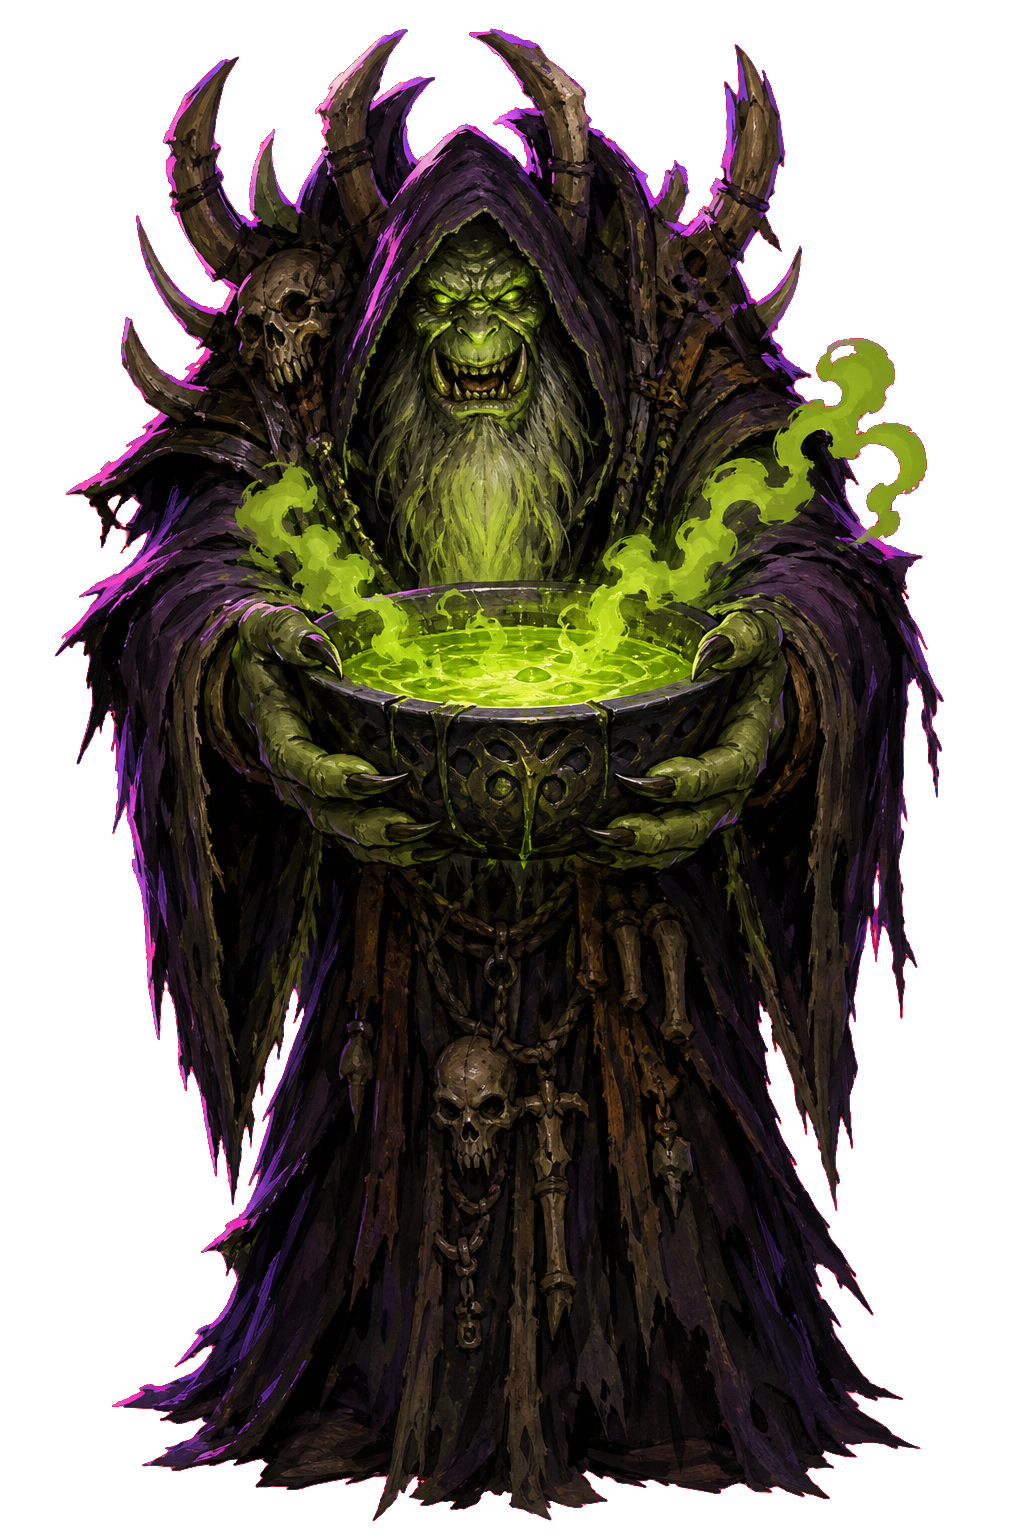
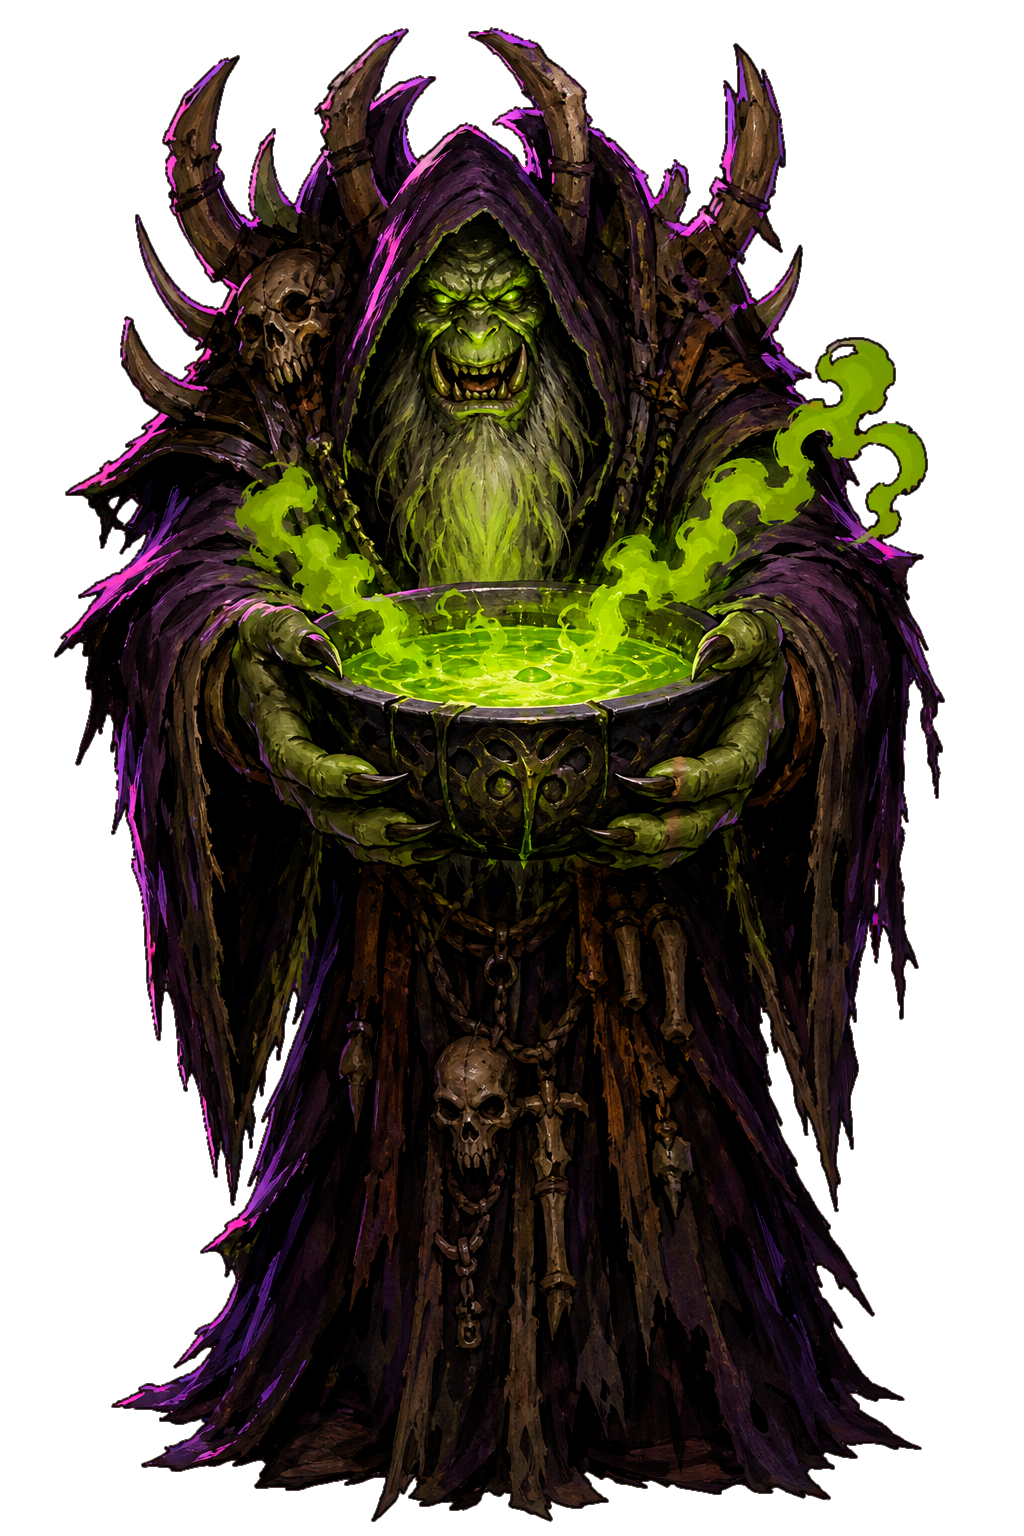
Хотфикс 2

diff --git a/styles.css b/styles.css
@@ -98,10 +98,6 @@ a {
     filter: drop-shadow(0 0 32px rgba(111,55,163,.4))
 }
 
-.character-wrap:after {
-    display: none
-}
-
 header {
     position: relative;
     z-index: 8;
@@ -110,7 +106,7 @@ header {
     display: flex;
     align-items: center;
     justify-content: space-between;
-    border-bottom: 1px solid rgba(255,255,255,.12)
+    /* border-bottom: 1px solid rgba(255,255,255,.12); */
 }
 
 .brand {
@@ -154,7 +150,7 @@ header {
 nav {
     display: flex;
     gap: 42px;
-    font: 600 10px Montserrat;
+    font: 600 16px Montserrat;
     letter-spacing: .15em
 }
 
@@ -177,7 +173,7 @@ nav a:hover {
 .overline,.label,.cta>p {
     text-transform: uppercase;
     letter-spacing: .3em;
-    font-size: 9px;
+    font-size: 14px;
     color: var(--green);
     font-weight: 700
 }
@@ -206,46 +202,6 @@ nav a:hover {
     margin: 30px 0 0 5px
 }
 
-.side-note {
-    position: absolute;
-    z-index: 5;
-    right: 5vw;
-    top: 130px;
-    display: flex;
-    align-items: center;
-    gap: 11px;
-    border-left: 1px solid var(--green);
-    padding-left: 14px
-}
-
-.side-note span {
-    font: 600 38px 'Cormorant Garamond'
-}
-
-.side-note small {
-    font-size: 8px;
-    line-height: 1.5;
-    color: #a69dab;
-    letter-spacing: .15em
-}
-
-.scroll {
-    position: absolute;
-    z-index: 5;
-    left: 7vw;
-    bottom: 40px;
-    font-size: 8px;
-    letter-spacing: .18em;
-    color: #8b838e
-}
-
-.scroll i {
-    font-style: normal;
-    color: var(--green);
-    font-size: 18px;
-    margin-left: 15px
-}
-
 .news {
     min-height: 620px;
     position: relative;
@@ -256,23 +212,6 @@ nav a:hover {
     align-items: start;
     background: radial-gradient(circle at 20% 80%,rgba(66,30,92,.2),transparent 35%),#09080b;
     border-top: 1px solid #211b25
-}
-
-.date {
-    border-top: 1px solid #41364a;
-    padding-top: 22px
-}
-
-.date span {
-    display: block;
-    font: 600 42px 'Cormorant Garamond';
-    color: #b292d5
-}
-
-.date b {
-    font-size: 11px;
-    letter-spacing: .35em;
-    color: #62596a
 }
 
 .news article {
@@ -474,22 +413,9 @@ footer {
         opacity: .72
     }
 
-    .side-note {
-        top: 105px
-    }
-
-    .scroll {
-        display: none
-    }
-
     .news {
         padding: 90px 7vw;
         display: block
-    }
-
-    .date {
-        width: 120px;
-        margin-bottom: 50px
     }
 
     .news h3 {
@@ -588,6 +514,58 @@ footer {
 
     .character-wrap img {
         object-position: center center
+    }
+}
+
+@media(min-width: 801px) {
+    .hero .character-wrap {
+        top: 100px;
+        right: -7%;
+        bottom: 0;
+        width: min(65vw,1200px);
+        height: auto;
+        overflow: hidden;
+        align-items: flex-start
+    }
+
+    .hero .character-wrap img {
+        width: 100%;
+        height: auto;
+        max-width: none;
+        object-fit: initial;
+        object-position: initial;
+        margin-top: -3%
+    }
+}
+
+/*
+ * Hero artwork alignment, 1440px and wider.
+ * At 2560px the visible (non-transparent) pixels occupy x=1340..2469.
+ */
+@media(min-width: 1440px) {
+    .hero {
+        --hero-art-left: 49.61vw;
+        --hero-art-width: 50.84vw;
+        --hero-art-top: calc(72px - 1.39vw)
+    }
+
+    .hero .character-wrap {
+        left: var(--hero-art-left);
+        right: auto;
+        top: var(--hero-art-top);
+        bottom: auto;
+        width: var(--hero-art-width);
+        height: auto;
+        overflow: visible;
+        transform: none !important
+    }
+
+    .hero .character-wrap img {
+        width: 100%;
+        height: auto;
+        margin-top: 0;
+        position: relative;
+        left: -229px;
     }
 }
 
@@ -734,13 +712,6 @@ footer {
         padding-right: 7vw
     }
 
-    .news .date {
-        position: absolute;
-        top: 42px;
-        right: 7vw;
-        width: 105px
-    }
-
     .news article {
         grid-column: 2;
         max-width: none
@@ -765,7 +736,7 @@ footer {
         background: linear-gradient(0deg,#050406 30%,transparent 60%)
     }
 
-    .glow,.hero-copy,.side-note,.scroll,header nav {display:none}
+    .glow,.hero-copy,header nav {display:none}
 
     .hero header {
         display:flex;

diff --git a/index.html b/index.html
@@ -31,7 +31,7 @@
         <a class="brand" href="#top" aria-label="Roleplay Horror">
           <img src="assets/roleplay-horror-logo.png" alt="Roleplay Horror">
         </a>
-        <nav><a href="#news">СЮЖЕТ</a><a href="#news">ХРОНОЛОГИЯ</a><a href="#form">НАГНАТЬ СТРАХУ</a></nav>
+        <nav><a href="#news">АННОТАЦИЯ</a><a href="#form">НАГНАТЬ СТРАХУ</a></nav>
       </header>
 
       <div class="hero-copy" id="top">
@@ -39,7 +39,6 @@
         <h1>УЖАСЫ<br>РОЛЕВОГО<br>СООБЩЕСТВА</h1>
       </div>
 
-      <a class="scroll" href="#news">СМОТРЕТЬ ДАЛЬШЕ <i>↓</i></a>
     </section>
 
     <section class="news" id="news">
@@ -66,7 +65,7 @@
     <section class="cta" id="form">
       <div class="sigil" aria-hidden="true">A</div>
       <p>Фекальные масла должны течь, амиго</p>
-      <h2>ЕСТЬ, ЧЕМ<br><em>ПОДЕЛИТЬСЯ?</em></h2>
+      <h2>ЕСТЬ ЧЕМ<br><em>ПОДЕЛИТЬСЯ?</em></h2>
       <a class="fear-button" href="https://docs.google.com/forms/d/e/1FAIpQLSeIyanrtbT4ZBPVX1aGp7A012pccO_CQ77_rzawRogk6rS3yw/viewform?usp=sharing&amp;ouid=116265456750417374685" target="_blank" rel="noopener noreferrer">
         <span>ТАК ПОКАЖИ МНЕ</span>
       </a>

diff --git a/script.js b/script.js
@@ -6,10 +6,10 @@ window.addEventListener('pointermove', ({ clientX, clientY }) => {
   const x = (clientX / window.innerWidth - .5) * 8;
   const y = (clientY / window.innerHeight - .5) * 5;
   heroCopy.style.transform = `translate(${-x * .35}px, calc(-50% + ${-y * .35}px))`;
-  character.style.transform = `translate(${x}px, ${y}px)`;
+  character.style.transform = window.innerWidth >= 1440 ? 'none' : `translate(${x}px, ${y}px)`;
 });
 
-const fadeTargets = document.querySelectorAll('.news article, .date, .cta > *:not(.sigil)');
+const fadeTargets = document.querySelectorAll('.news article, .cta > *:not(.sigil)');
 const observer = new IntersectionObserver(entries => {
   entries.forEach(entry => {
     if (entry.isIntersecting) entry.target.classList.add('shown');
